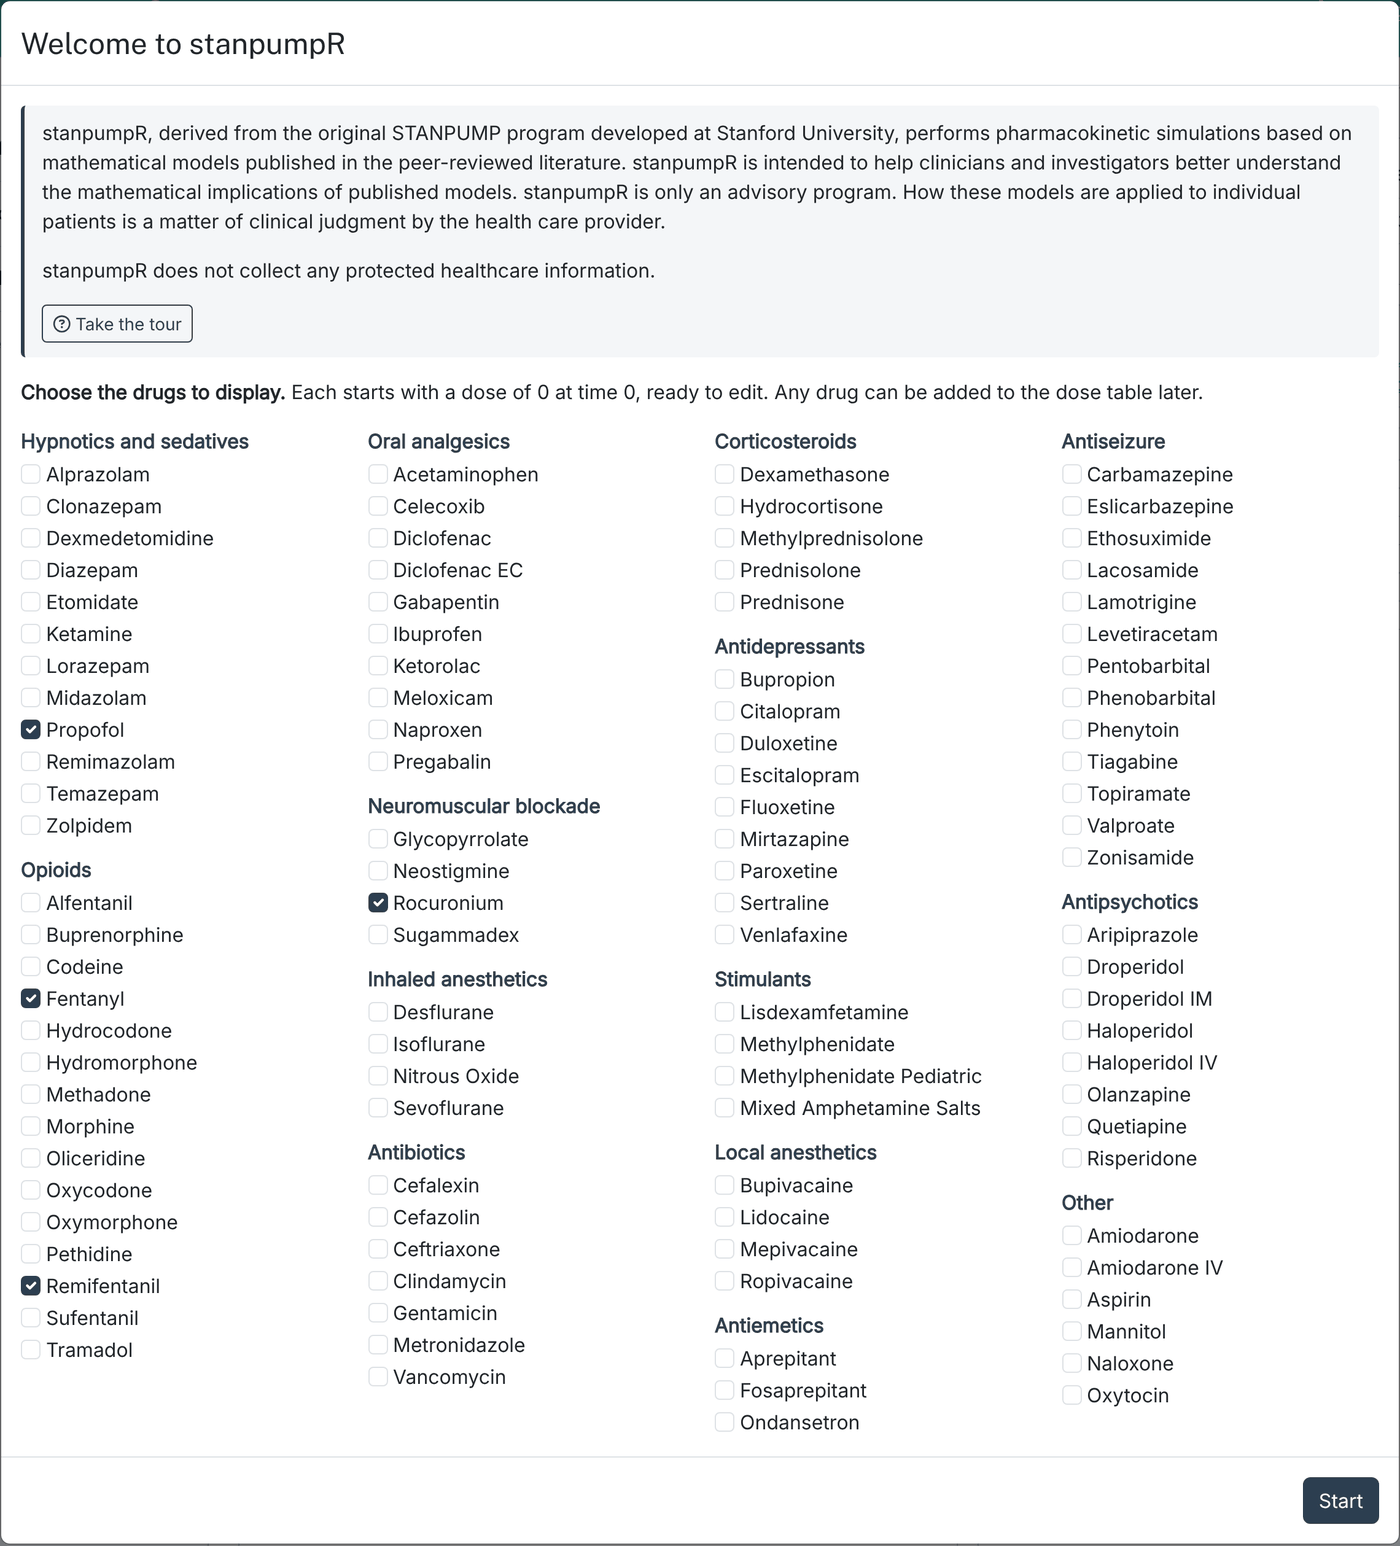
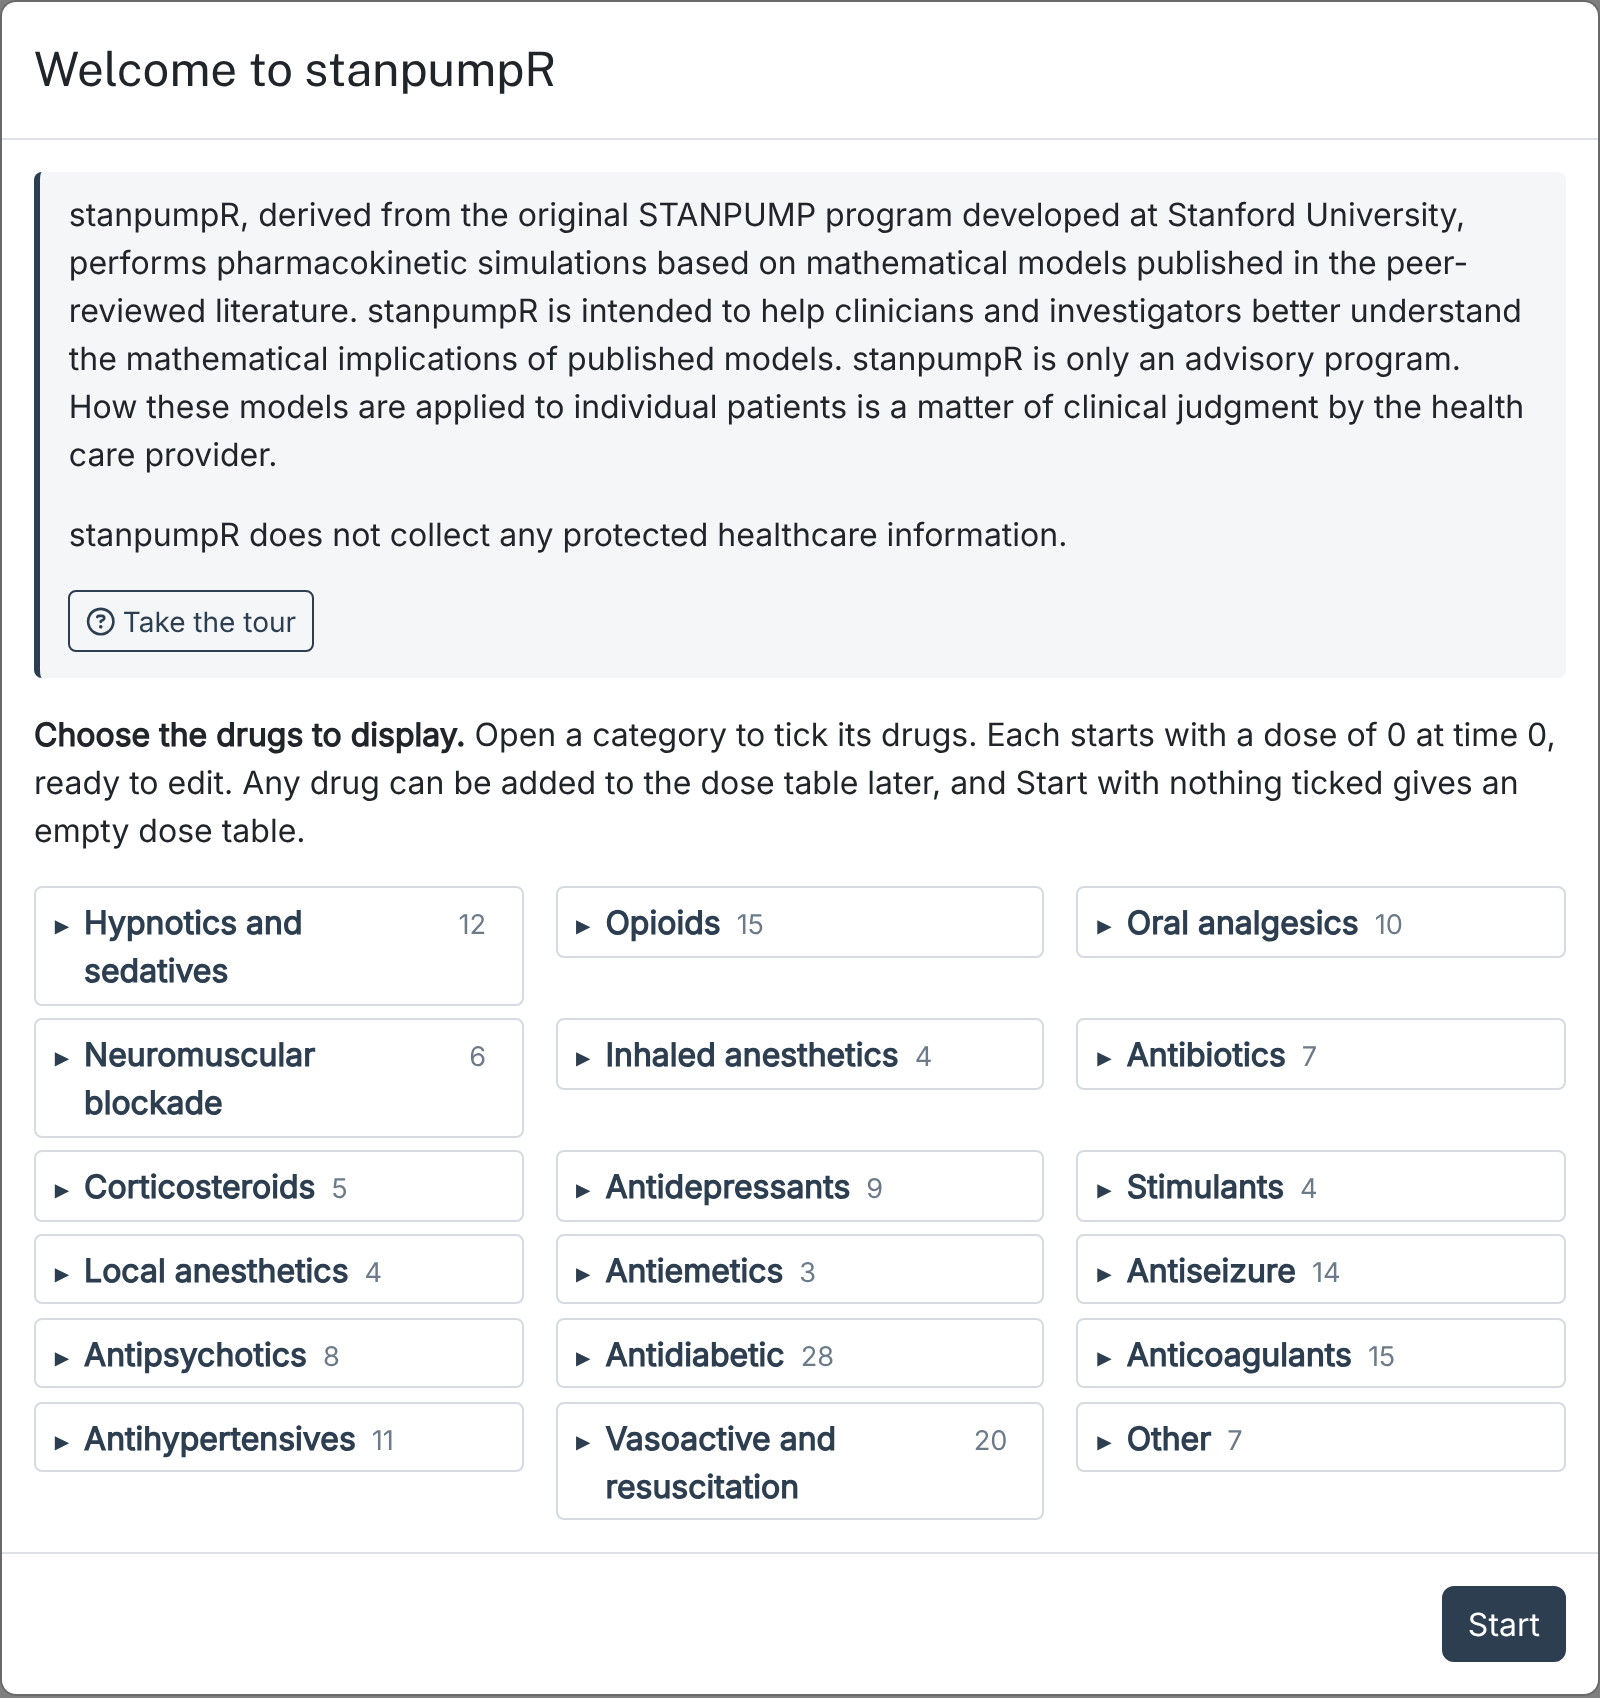
Startup menu: collapsed drug categories, nothing ticked
The startup menu listed every drug in the library as checkboxes at once,
and had grown too large.  Each category is now a collapsed <details>
section whose summary gives its name and drug count; clicking it opens the
drug list.  Nothing is ticked when the menu opens.  app.js adds "n ticked"
to a category's summary so a tick is not lost when it is collapsed again
(the menu works without it).  The modal shrinks from xl to l.

STARTUP_DRUGS_DEFAULT stays as the drugs behind a ?help= link, and ticking
them still gives doseTableInit.  Quick-start help, its screenshot, the
user's guide, the sharing page and AGENTS.md follow.

Claude-Session: https://claude.ai/code/session_01VyYXrdVJu94S8e2dssxZ8E

Changed region(s): [[0.0, 0.0, 0.9521, 0.9314], [0.0, 0.9314, 1.0, 1.0], [0.9829, 0.0, 1.0, 0.031]]

diff --git a/inst/www/app.css b/inst/www/app.css
@@ -477,7 +477,9 @@ a.investigator-link:hover {
   color: #4a5764;
 }
 
-/* the startup drug menu (R/startup-drugs.R): categories flow into columns */
+/* the startup drug menu (R/startup-drugs.R): one collapsed section per
+   category, in a grid; an open one spans the grid and its drugs flow into
+   columns */
 .startup-welcome {
   border-left: 3px solid #2c3e50;
   background: #f4f6f8;
@@ -486,17 +488,59 @@ a.investigator-link:hover {
   border-radius: 4px;
 }
 .startup-drug-groups {
-  column-width: 13rem;
-  column-gap: 1.5rem;
+  display: grid;
+  grid-template-columns: repeat(auto-fill, minmax(14rem, 1fr));
+  gap: 0.4rem 1rem;
+  align-items: start;
 }
 .startup-drug-group {
-  break-inside: avoid;
-  margin-bottom: 0.75rem;
+  border: 1px solid #d5dbe1;
+  border-radius: 4px;
 }
-.startup-drug-group .control-label {
+.startup-drug-group[open] {
+  grid-column: 1 / -1;
+}
+.startup-drug-group > summary {
+  display: flex;
+  align-items: baseline;
+  gap: 0.5rem;
+  padding: 0.3rem 0.6rem;
+  cursor: pointer;
+  list-style: none;
   font-weight: 600;
   color: #2c3e50;
 }
+.startup-drug-group > summary::before {
+  content: "\25B8";
+  font-size: 0.8em;
+}
+.startup-drug-group[open] > summary::before {
+  content: "\25BE";
+}
+.startup-drug-group > summary::-webkit-details-marker {
+  display: none;
+}
+.startup-drug-count {
+  font-weight: 400;
+  color: #6c7a89;
+  font-size: 0.85em;
+}
+.startup-drug-ticked {
+  margin-left: auto;
+  font-weight: 400;
+  font-size: 0.85em;
+  color: #18794e;
+}
 .startup-drug-group .shiny-input-container {
-  margin-bottom: 0;
+  margin: 0;
+  padding: 0.2rem 0.8rem 0.5rem;
+  width: auto;
+}
+.startup-drug-group .shiny-options-group {
+  column-width: 11rem;
+  column-gap: 1.5rem;
+}
+.startup-drug-group .checkbox {
+  break-inside: avoid;
+  margin-top: 0;
 }

diff --git a/inst/www/app.js b/inst/www/app.js
@@ -28,6 +28,16 @@ $(document).on('shiny:sessioninitialized', function(event) {
   ro.observe(plotBox);
 });
 
+// The startup drug menu (R/startup-drugs.R): each category's summary says how
+// many of its drugs are ticked, so a tick is not lost when it is collapsed.
+function startupDrugTickedCount(group) {
+  var n = $(group).find('input[type=checkbox]:checked').length;
+  $(group).find('.startup-drug-ticked').text(n > 0 ? n + ' ticked' : '');
+}
+$(document).on('change', '.startup-drug-group input[type=checkbox]', function() {
+  startupDrugTickedCount($(this).closest('.startup-drug-group'));
+});
+
 // Track mouse position so hover tooltip can be positioned correctly when scrolled
 let lastMouseX = 0, lastMouseY = 0;
 // Where the hover tip was last placed, and how far the pointer may move

diff --git a/AGENTS.md b/AGENTS.md
@@ -41,7 +41,7 @@ First-time local setup: copy `config.yml.sample` → `config.yml`
 
 **Dose table lifecycle**: edits land in a draft held by an `{undomanager}` (`doseTableHistory()`, with `doseTableDraft()` a thin reactive over its `$value`) that owns the undo/redo history; `Apply` commits it to the canonical `doseTable()`; `doseTableClean()` (cleaned via `cleanDoseTable()` in `input-tables.R`) is what the rest of the pipeline actually reads. Clicking the plot to add/edit a dose bypasses the draft and applies immediately, and any direct write to `doseTable()` resets the draft and clears the history.
 
-**Startup** (`R/startup-drugs.R`): a session starts with an empty dose table (`doseTableBlank`) and, unless the URL restores a bookmark with drugs in its dose table, `app_server()` shows a modal of checkboxes grouped by the CSV's `Category` column (`DRUG_CATEGORIES` order; `STARTUP_DRUGS_DEFAULT` ticked). **Start** writes `startupDoseTable()` to `doseTable()` through `setDoseTable()`, in the table's current time format (its times are all `"0"`); with the defaults that is exactly `doseTableInit`, the table the app opened with before the menu. Shiny "restores" from any query string, so `?debug=1` alone is not a bookmark: `isBookmarkRestore()` requires a `DT` value, and `onRestored()` returns early without one. The weekly welcome text (`show_intro_modal` from `app.js`) is rendered into the open menu rather than replacing it. Tests: `test-startup-drugs.R`.
+**Startup** (`R/startup-drugs.R`): a session starts with an empty dose table (`doseTableBlank`) and, unless the URL restores a bookmark with drugs in its dose table, `app_server()` shows a modal of checkboxes grouped by the CSV's `Category` column (`DRUG_CATEGORIES` order), each category a collapsed `<details>` section whose summary gives its drug count (and, through `app.js`, how many are ticked), with nothing ticked. **Start** writes `startupDoseTable()` to `doseTable()` through `setDoseTable()`, in the table's current time format (its times are all `"0"`); with the four drugs of `STARTUP_DRUGS_DEFAULT` ticked that is exactly `doseTableInit`, the table the app opened with before the menu, and `STARTUP_DRUGS_DEFAULT` is still what a `?help=` link opens behind. Shiny "restores" from any query string, so `?debug=1` alone is not a bookmark: `isBookmarkRestore()` requires a `DT` value, and `onRestored()` returns early without one. The weekly welcome text (`show_intro_modal` from `app.js`) is rendered into the open menu rather than replacing it. Tests: `test-startup-drugs.R`.
 
 **Deep links** (`R/deep-links.R`): `?scenario=<id>` opens a fresh session with that teaching scenario loaded (through `helpServer()`'s `loadScenario()`, after the dose-table history exists, since `setDoseTable()` writes it) and `?help=<page-id>` opens the Help tab on that page with the default drugs behind it; either skips the startup menu and the welcome. `deepLinkFromQuery()` validates both against the scenario list and the page registry; a bookmark's dose table wins over `?scenario=`. The first change rewrites the address bar into an ordinary bookmark. Every scenario page prints its own link. Help page `inst/help/sharing.md`. Tests: `test-deep-links.R`.
 

diff --git a/inst/help/quick-start.md b/inst/help/quick-start.md
@@ -5,11 +5,11 @@ Five steps produce a simulation. Everything else in this help is refinement.
 <figcaption>The simulator. Patient and graph settings on the left, the plot in the middle, the dose table on the right.</figcaption>
 </figure>
 
-When the app opens it asks which drugs to display, with a box for each drug, grouped by category: hypnotics and sedatives, opioids, oral analgesics, neuromuscular blockade, inhaled anesthetics, antibiotics, corticosteroids, antidepressants, stimulants, local anesthetics, antiemetics, antiseizure drugs, antipsychotics, antidiabetic drugs and others. The illicit-drug research models are never offered here. Propofol, fentanyl, remifentanil and rocuronium start ticked; untick them to start with something else. **Start** puts each ticked drug in the dose table with a dose of 0 at time 0, ready to edit. Any drug can be added to the dose table later.
+When the app opens it asks which drugs to display. The drugs are grouped by category: hypnotics and sedatives, opioids, oral analgesics, neuromuscular blockade, inhaled anesthetics, antibiotics, corticosteroids, antidepressants, stimulants, local anesthetics, antiemetics, antiseizure drugs, antipsychotics, antidiabetic drugs, anticoagulants, antihypertensives, vasoactive and resuscitation drugs, and others. Each category starts collapsed, showing only its name and how many drugs it holds; click it to open its list and tick the drugs you want. A category with drugs ticked says how many, even when collapsed again. Nothing is ticked to begin with. The illicit-drug research models are never offered here. **Start** puts each ticked drug in the dose table with a dose of 0 at time 0, ready to edit; with nothing ticked, the dose table starts empty. Any drug can be added to the dose table later.
 
 <figure class="help-figure help-figure-medium">
-<img src="stanpumpr-assets/help/quick-start-welcome.png" alt="The opening dialog: the statement of what stanpumpR is, a Take the tour button, and the drugs to display as checkboxes in fourteen groups, with propofol, fentanyl, remifentanil and rocuronium ticked and a Start button at the bottom">
-<figcaption>The opening dialog, as on a first visit: the statement of what stanpumpR is, then the drugs to display, grouped by category.</figcaption>
+<img src="stanpumpr-assets/help/quick-start-welcome.png" alt="The opening dialog: the statement of what stanpumpR is, a Take the tour button, and the drug categories as eighteen collapsed sections, each with the number of drugs it holds, and a Start button at the bottom">
+<figcaption>The opening dialog, as on a first visit: the statement of what stanpumpR is, then the drug categories, each collapsed until clicked.</figcaption>
 </figure>
 
 On a first visit, and once a week after that, the dialog also states what stanpumpR is and is not, and **Take the tour** starts with your ticked drugs and brings you to this page.

diff --git a/inst/help/sharing.md b/inst/help/sharing.md
@@ -30,7 +30,7 @@ The URL above carries a whole simulation. Two shorter links open the app on some
 | Link | Opens |
 |---|---|
 | `https://stanpumpr.io/?scenario=propofol-bolus` | the simulator with that [teaching scenario](help:scenarios/index) loaded, as its **Load** button does; the startup drug menu is skipped |
-| `https://stanpumpr.io/?help=models/effect-site` | the Help tab on that page, with the default drugs in the simulator behind it |
+| `https://stanpumpr.io/?help=models/effect-site` | the Help tab on that page, with propofol, fentanyl, remifentanil and rocuronium in the simulator behind it |
 | `https://stanpumpr.io/?help=scenarios/propofol-bolus` | a scenario's help page, with its Load button |
 | `https://stanpumpr.io/?scenario=propofol-bolus&help=scenarios/propofol-bolus` | both: the scenario loaded, and the help open on its page |
 

diff --git a/docs/users-guide.md b/docs/users-guide.md
@@ -20,8 +20,10 @@ entered, and real patients vary substantially around those predictions.
 
 ## The 60-second tour
 
-1. Open the app. Tick the drugs you want to display (propofol, fentanyl,
-   remifentanil and rocuronium are ticked to begin with) and press **Start**.
+1. Open the app. Open a drug category (anesthesia drugs are under
+   *Hypnotics and sedatives*, *Opioids* and *Neuromuscular blockade*), tick
+   the drugs you want to display, and press **Start**. Nothing is ticked to
+   begin with.
    A default patient and a dose table holding a zero dose of each are waiting.
 2. In the **Doses** table, edit a row, or type another drug name — the cell
    autocompletes from the drug library.
